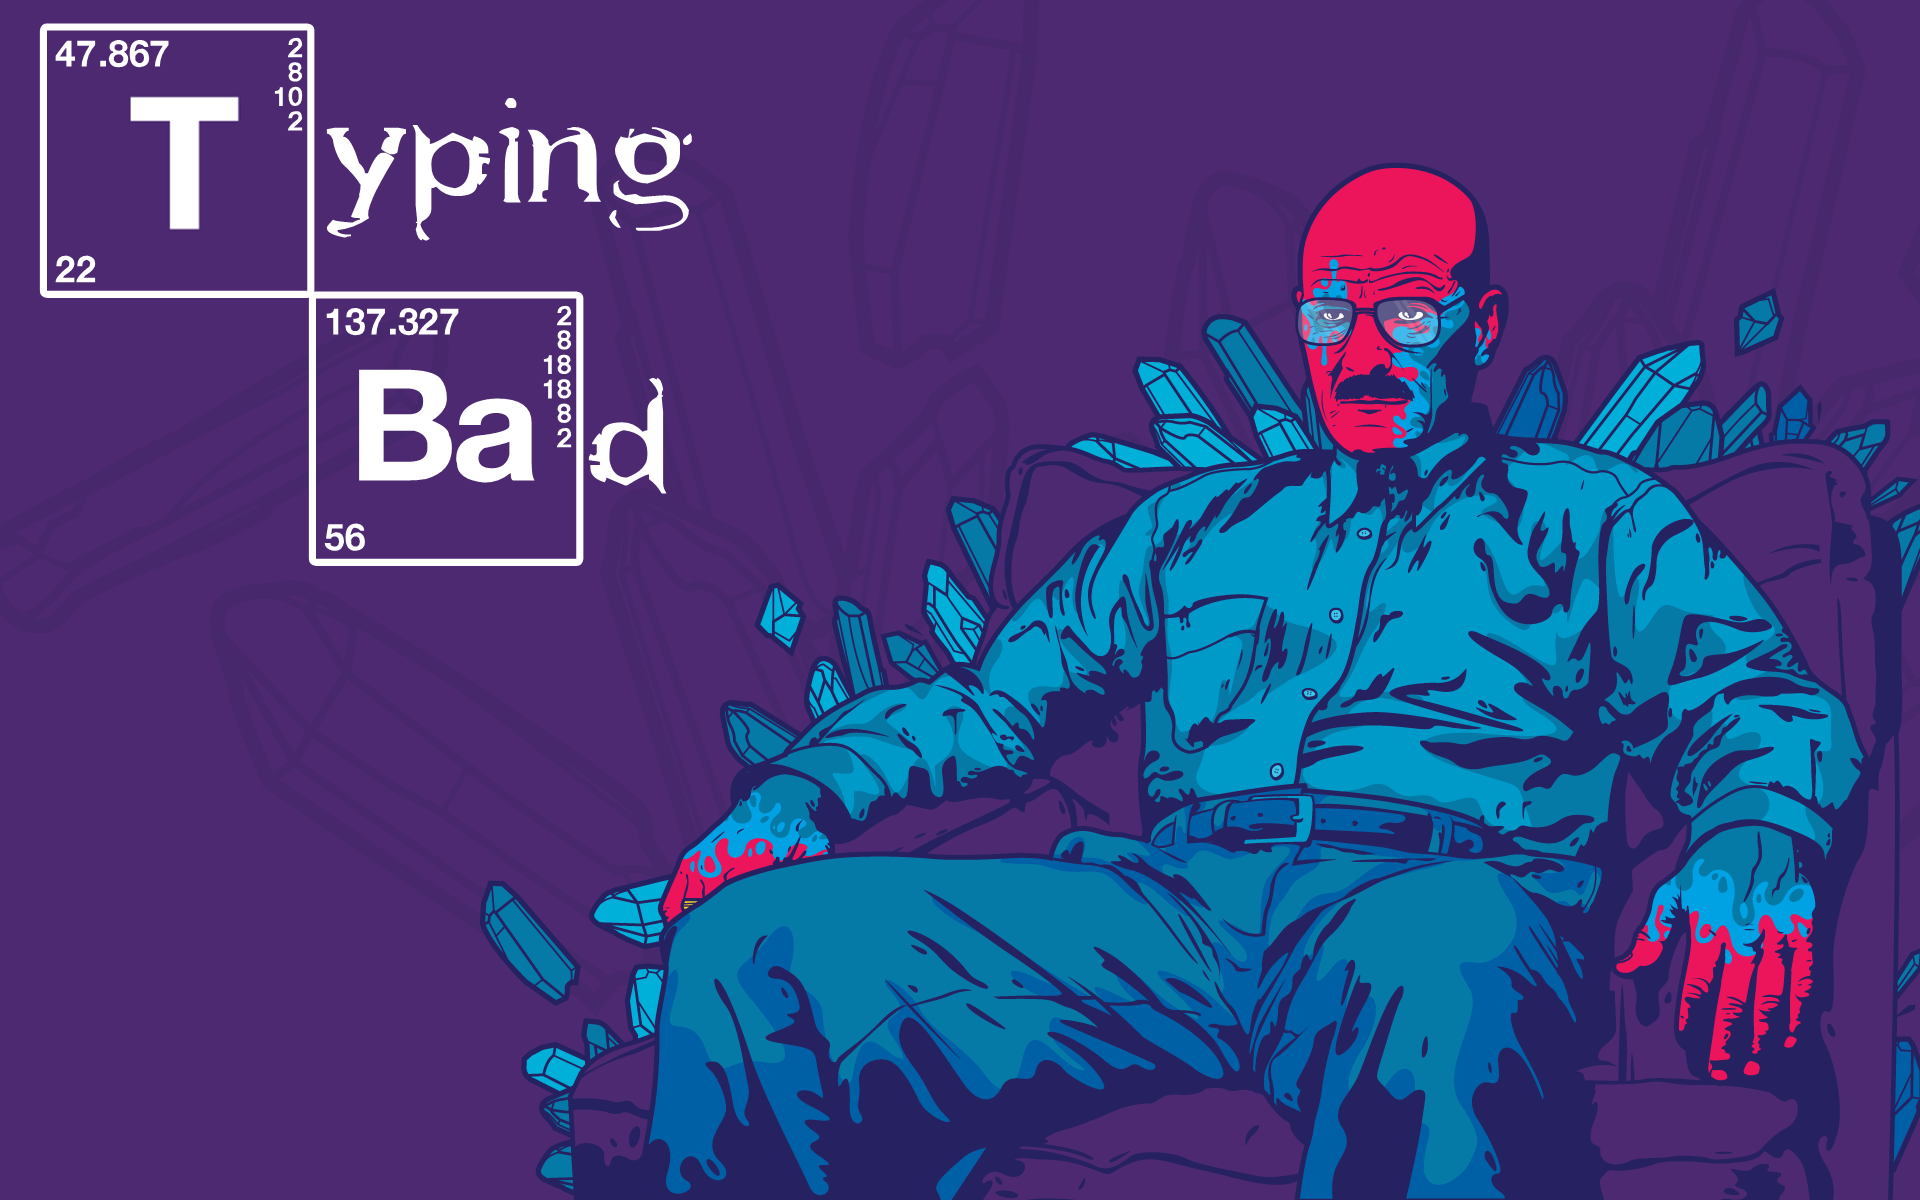
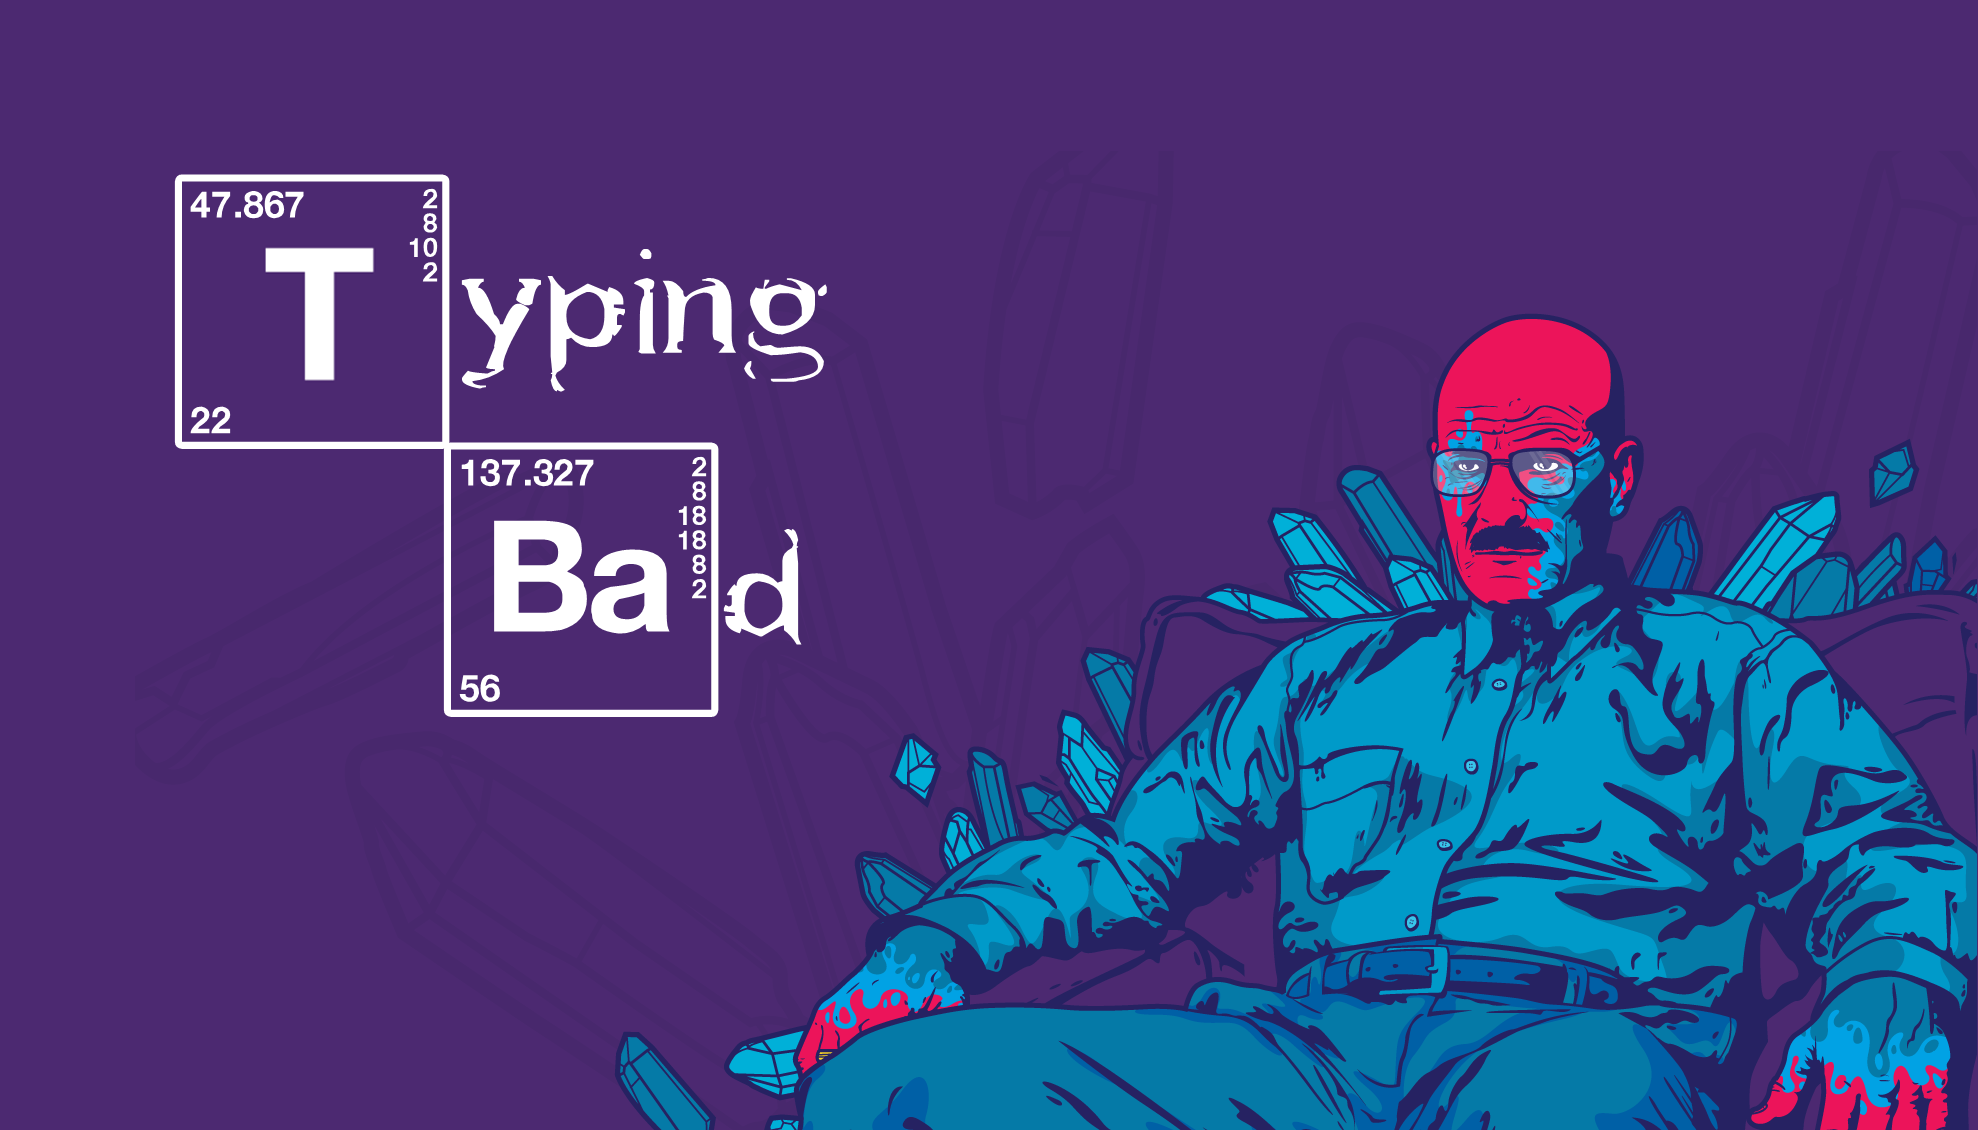
Add files via upload
-Full screen resolution
-Time limit added
- Score added

diff --git a/Assets/Scripts/inputScript.cs b/Assets/Scripts/inputScript.cs
@@ -12,32 +12,96 @@ public class inputScript : MonoBehaviour {
 	private int i = -1;
 	private GameObject[] wordsToPrint;
 
-	// Use this for initialization
-	void Start () {
-		char[] delims = {'\n'};
+
+    public int timeLeft = 5;
+    public Text countdownText;
+    public Text livesleft;
+    public Text gameover;
+    private int lives = 3;
+
+    // Use this for initialization
+    void Start () {
+        livesleft.text = "Lives: 3";
+        // afisez primul cuvant 
+        char[] delims = {'\n'};
 		words = inputFile.ToString ().Split(delims);
-	}
+        i = Random.Range(0, words.Length);
+        inputField.GetComponent<InputField>().text = "";
+        printWords(i);
+        StartCoroutine("LoseTime");
+    }
 	
 	// Update is called once per frame
 	void Update () {
-		
-		if (i < 0 || inputField.GetComponent<InputField> ().text.Equals (words [i].TrimEnd (new char[] { '\r', '\n' }))) {
-			// daca nu am afisat un cuvant sau s-a gasit potrivire intre ce este in input text si cuvantul afisat se
-			// genereaza un nou cuvant
-			i = Random.Range (0, words.Length);
-			inputField.GetComponent<InputField> ().text = "";
-			// se printeaza noul cuvant
-			printWords (i);
-		} else {
-			// aplic un efect pentru fiecare cuvant
-			for (int i = 0; i < wordsToPrint.Length; i++) {
-				//aici am aplicat un efect
-				wordsToPrint [i].transform.Rotate(new Vector3(1, 0, 0) * Time.deltaTime * 100 * (i + 1));
-			}	
-		}
+
+        countdownText.text = ("Countdown: " + timeLeft);
+        if (timeLeft <= 0)
+        {if (lives < 0) livesleft.text = "Lives: 2";
+        if (lives < -5) livesleft.text = "Lives: 1";
+
+            countdownText.text = "Times Up!";
+            lives--;
+           
+
+
+            i = Random.Range(0, words.Length);
+            inputField.GetComponent<InputField>().text = "";
+            // se printeaza noul cuvant
+            printWords(i);
+            Debug.Log("vieti:"+lives);
+            if (lives <= -12) {
+                livesleft.text = "Lives: 0";
+                //Time.timeScale = 0;
+                Debug.Log("GAME OVER");
+                // TODO GAME OVER.
+                StopCoroutine("LoseTime");
+                for (int i = 0; i < wordsToPrint.Length; i++) Destroy(wordsToPrint[i]); //sterg cuvintele rosii.
+                gameover.text = "GAME OVER"; 
+                
+            }
+        }
+
+        else {
+
+            // daca s-a gasit potrivire intre ce este in input text si cuvantul afisat se genereaza un nou cuvant
+            if (inputField.GetComponent<InputField>().text.Equals(words[i].TrimEnd(new char[] { '\r', '\n' })))
+            {
+                // TODO DA PUNCTE
+                i = Random.Range(0, words.Length);
+                inputField.GetComponent<InputField>().text = "";
+                // se printeaza noul cuvant
+                printWords(i);
+                timeLeft = 10;
+            }
+            else
+            {
+                // aplic un efect pentru fiecare cuvant
+                for (int i = 0; i < wordsToPrint.Length; i++)
+                {
+                    //aici am aplicat un efect
+                    wordsToPrint[i].transform.Rotate(new Vector3(1, 0, 0) * Time.deltaTime * 100 * (i + 1));
+                }
+            }
+
+        }
+
+        
 	}
 
-	void printWords(int index)
+    IEnumerator LoseTime()
+    {
+        while (true)
+        {
+            yield return new WaitForSeconds(1);
+            timeLeft--;
+            if (timeLeft == 0)
+            {
+                yield return new WaitForSeconds(0.1f);
+                timeLeft = 10;
+            }
+        }
+    }
+    void printWords(int index)
 	{
 		// daca avem deja afisat un cuvant atunci il stergem
 		if (wordsToPrint != null) {

diff --git a/Assets/Scripts/countdownScript.cs b/Assets/Scripts/countdownScript.cs
@@ -1,0 +1,45 @@
+using UnityEngine;
+using System.Collections;
+using UnityEngine.UI;
+
+public class countdownScript : MonoBehaviour
+{
+    public int timeLeft = 5;
+    public Text countdownText;
+
+    // Use this for initialization
+    void Start()
+    {
+        StartCoroutine("LoseTime");
+    }
+
+    // Update is called once per frame
+    void Update()
+    {
+        countdownText.text = ("CD: " + timeLeft);
+
+        if (timeLeft <= 0)
+        {
+            
+            countdownText.text = "Times Up!";
+            
+        }
+    }
+
+   
+
+    IEnumerator LoseTime()
+    {
+        while (true)
+        {
+            yield return new WaitForSeconds(1);
+            timeLeft--;
+            if (timeLeft == 0) {
+          
+                yield return new WaitForSeconds(1);
+                timeLeft = 10;
+            }
+        }
+    }
+    
+}

diff --git a/Assets/Scripts/TimerScript.cs b/Assets/Scripts/TimerScript.cs
@@ -1,0 +1,35 @@
+using System.Collections;
+using System.Collections.Generic;
+using UnityEngine;
+using UnityEngine.UI;
+
+
+public class TimerScript : MonoBehaviour {
+
+    public Text doneText;
+    public Text timerText;
+    private float startTime;
+
+	// Use this for initialization
+	void Start () {
+        startTime = Time.time;
+
+		
+	}
+	
+	// Update is called once per frame
+	void Update () {
+        float t = Time.time - startTime;
+        string minutes = ((int)t / 60).ToString();
+        string seconds = (t % 60).ToString("f0");
+
+        timerText.text = "Time: " + minutes + ":" + seconds;
+
+        if (Equals(seconds, "59")) {
+            Time.timeScale = 0;
+            
+            doneText.text = "GAME OVER";
+        }
+    
+    }
+}

diff --git a/Assets/Scripts/LivesScript.cs b/Assets/Scripts/LivesScript.cs
@@ -1,0 +1,16 @@
+using System.Collections;
+using System.Collections.Generic;
+using UnityEngine;
+
+public class LivesScript : MonoBehaviour {
+
+	// Use this for initialization
+	void Start () {
+		
+	}
+	
+	// Update is called once per frame
+	void Update () {
+		
+	}
+}

diff --git a/Assets/Scripts/ScoreScript.cs b/Assets/Scripts/ScoreScript.cs
@@ -1,0 +1,16 @@
+using System.Collections;
+using System.Collections.Generic;
+using UnityEngine;
+
+public class ScoreScript : MonoBehaviour {
+
+	// Use this for initialization
+	void Start () {
+		
+	}
+	
+	// Update is called once per frame
+	void Update () {
+		
+	}
+}
